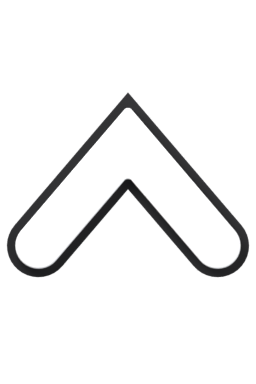
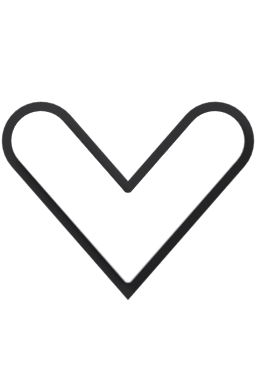
FX_GuideArrow: chevron points down (toward Attachment1), thicker stroke
Claude-Session: https://claude.ai/code/session_01F5fKm3LA6FhMSmJMXLTzTP

Changed region(s): [[0.0, 0.25, 1.0, 0.7812]]

diff --git a/blender/G2_ui/fam_fx.py b/blender/G2_ui/fam_fx.py
@@ -1,10 +1,11 @@
 """fam_fx — the tutorial guide's world FX (group "fx"): the arrow line and the target marker.
 
 FX_GuideArrow  one tile of the guide line (Controllers.Tutorial draws it as camera-facing
-               Beams, Config.Tutorial.guide). 256 x 384, one chevron pointing UP: a Beam maps
-               the image's width across the beam and its height along it (checked in Studio,
-               2026-10-29: a right-pointing tile drew a sideways zigzag), so TextureLength =
-               one arrow and Width0/1 = the tile's width. Fill is pure white and tinted in game by
+               Beams, Config.Tutorial.guide). 256 x 384, one chevron pointing DOWN: a Beam maps
+               the image's width across the beam and its height along it, top at Attachment0
+               (checked in Studio, 2026-10-29: a right-pointing tile drew a sideways zigzag, an
+               up-pointing one pointed back at the player), so TextureLength = one arrow and
+               Width0/1 = the tile's width. Fill is pure white and tinted in game by
                Beam.Color (guide.color); the ink outline stays dark under any tint, which is
                what keeps the line readable on the bright Lobby and the dark Shop alike.
                Rendered face-on and orthographic: a beam tile must have no perspective.
@@ -27,7 +28,7 @@ FAM = "fx"
 GUIDE_YELLOW = "#FFD23F"
 G.FAMILY.setdefault(FAM, dict(G.FAMILY["hud"], fill=0.9))
 
-CHEVRON = [(-0.7, -0.42), (0.0, 0.4), (0.7, -0.42)]   # pointing up (+z), tip at z = 0.4
+CHEVRON = [(-0.68, 0.4), (0.0, -0.38), (0.68, 0.4)]   # pointing down (-z): toward Attachment1
 
 
 def offset(pts, d):
@@ -83,9 +84,9 @@ def _tile_render(name, draft):
 
 @fx("FX_GuideArrow", kind="tile")
 def guide_arrow():
-    fill = G.puffy(G.fillet(G.stroke(CHEVRON, 0.36, cap_round=True), 0.03, 2), 0.3)
+    fill = G.puffy(G.fillet(G.stroke(CHEVRON, 0.46, cap_round=True), 0.03, 2), 0.3)
     G.T(fill, "#FFFFFF", name="Chevron")
-    rim = G.slab(G.stroke(CHEVRON, 0.36 + 0.13, cap_round=True), 0.12, y=0.12)
+    rim = G.slab(G.stroke(CHEVRON, 0.46 + 0.15, cap_round=True), 0.12, y=0.12)
     G.T(rim, G.INK, name="Rim")
     return {"render": lambda draft: _tile_render("FX_GuideArrow", draft)}
 
